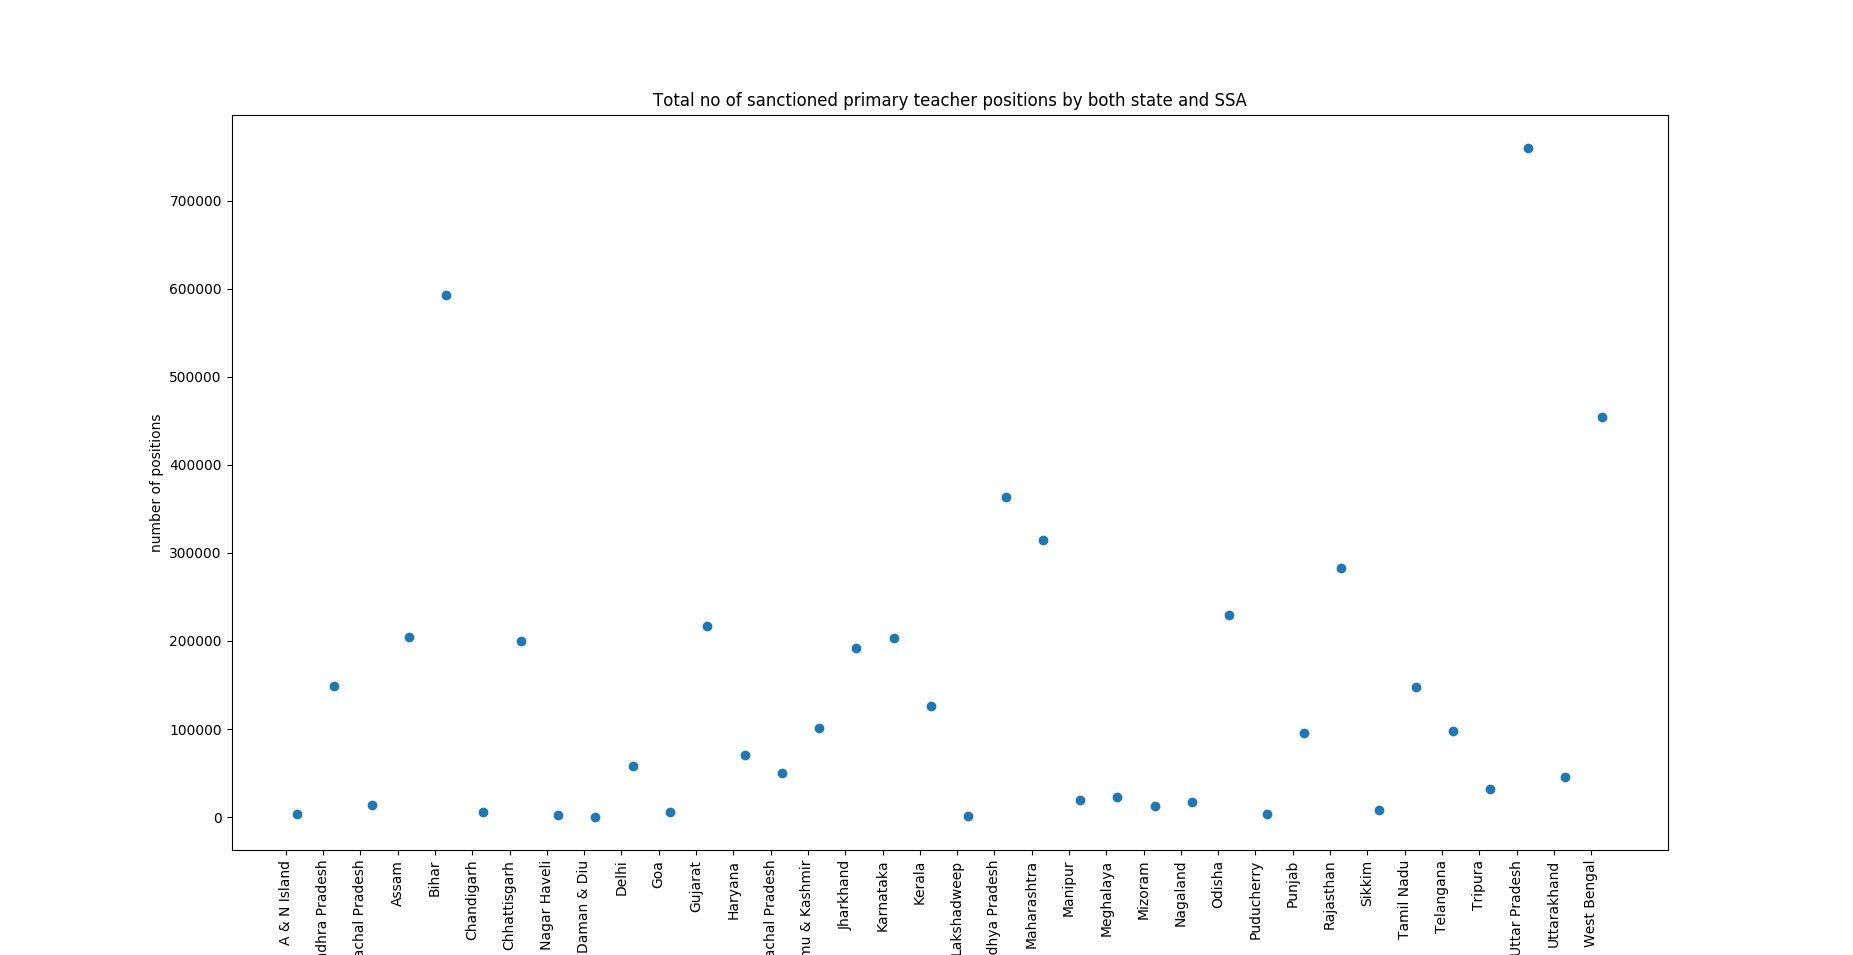
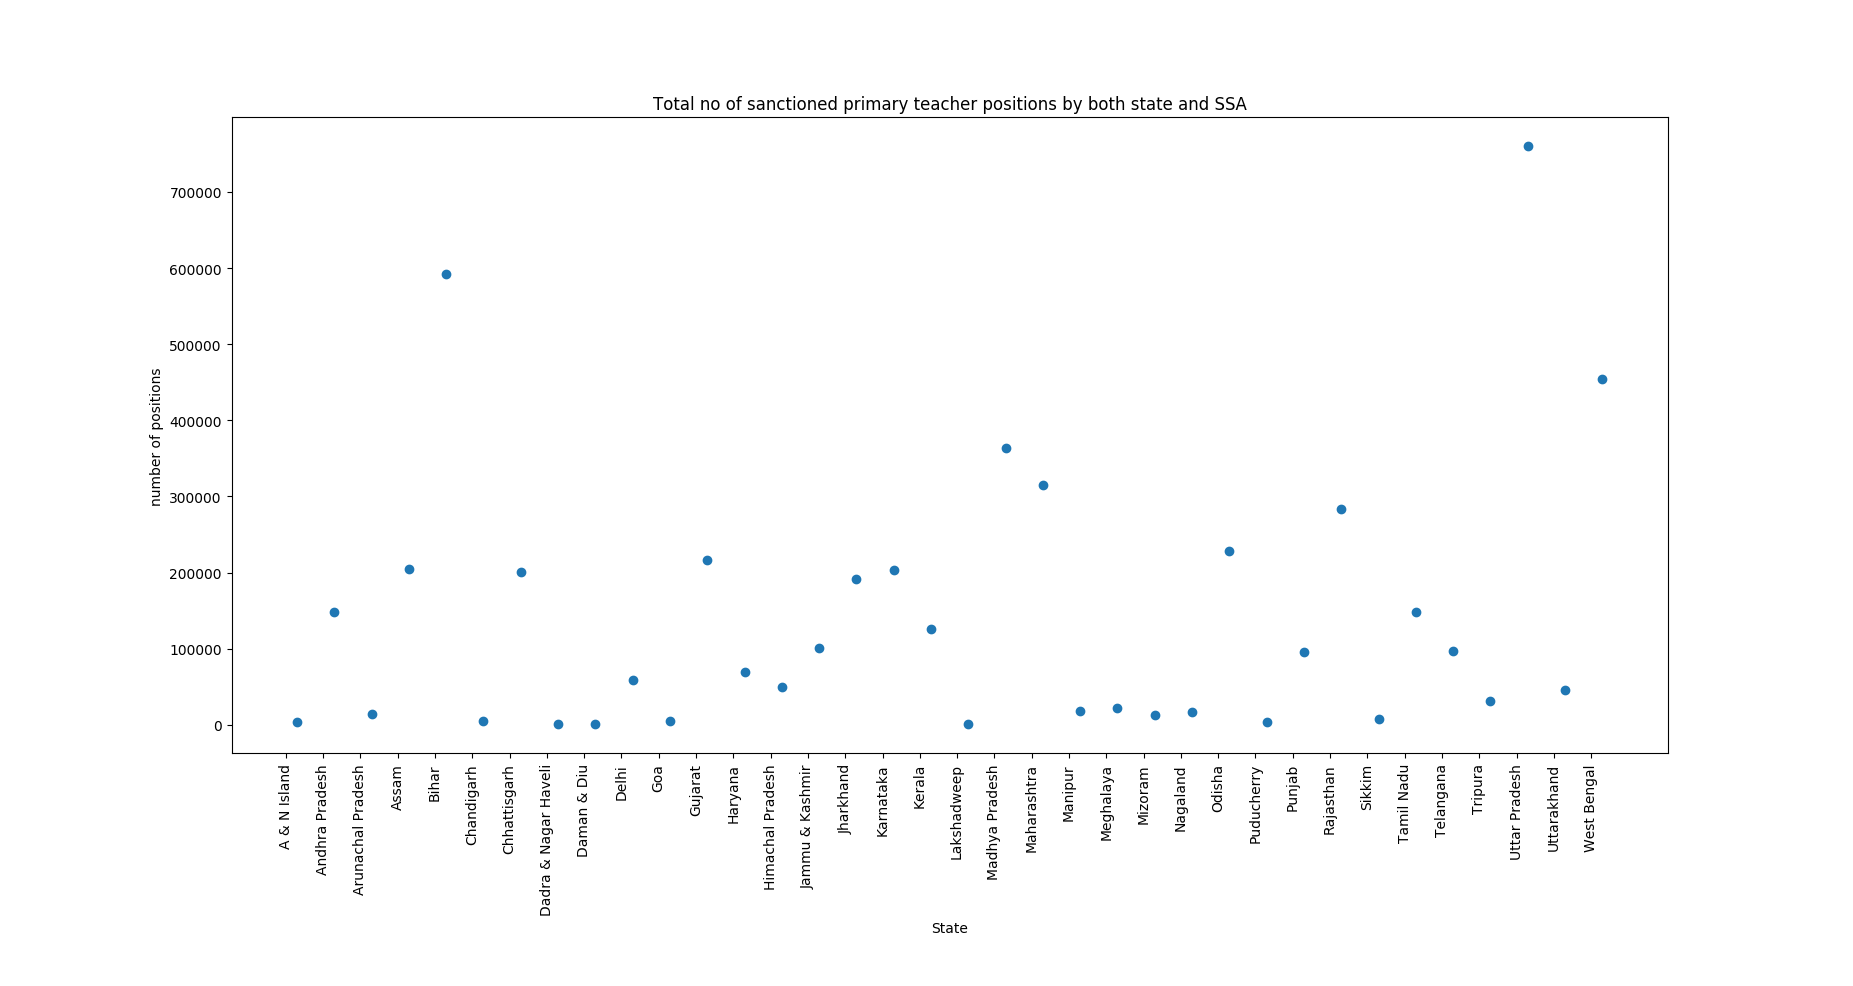
read me file

diff --git a/script.py b/script.py
@@ -37,7 +37,7 @@ for state in data["data"]:
 
 ind=[x-.3 for x in np.arange(len(names))]
 ind2=[x+.3 for x in ind]
-plt.figure(figsize=(20,8))
+plt.figure(figsize=(20,6))
 p1 = plt.bar(ind, states_work, 0.3)
 p2 = plt.bar(ind,states_vac , 0.3,bottom=states_work)
 
@@ -54,7 +54,7 @@ plt.legend((p1[0], p2[0],p3[0], p4[0]), ('Working - By State', ' Vacancies - By 
 plt.show()
 
 
-plt.figure(figsize=(20,8))
+plt.figure(figsize=(20,6))
 plt.scatter(range(len(names)),tots_sp)
 plt.xticks(ind, names,rotation='vertical')
 plt.xlabel("State")

diff --git a/README.md b/README.md
@@ -1,0 +1,9 @@
+# ds200
+DS 200 Project
+
+The data.json  is downloaded from https://data.gov.in/resources/stateut-wise-status-teachers-elementary-level-31032017-ministry-human-resource-development
+
+Observations:
+States that are underdeveloped like Bihar,UP have more SSA sanctioned teachers than state sponsored
+The statistic,Total sponspored teaching postions is sparsely distributed
+UP and Bihar are the states that have the highest no of sanctioned positions
